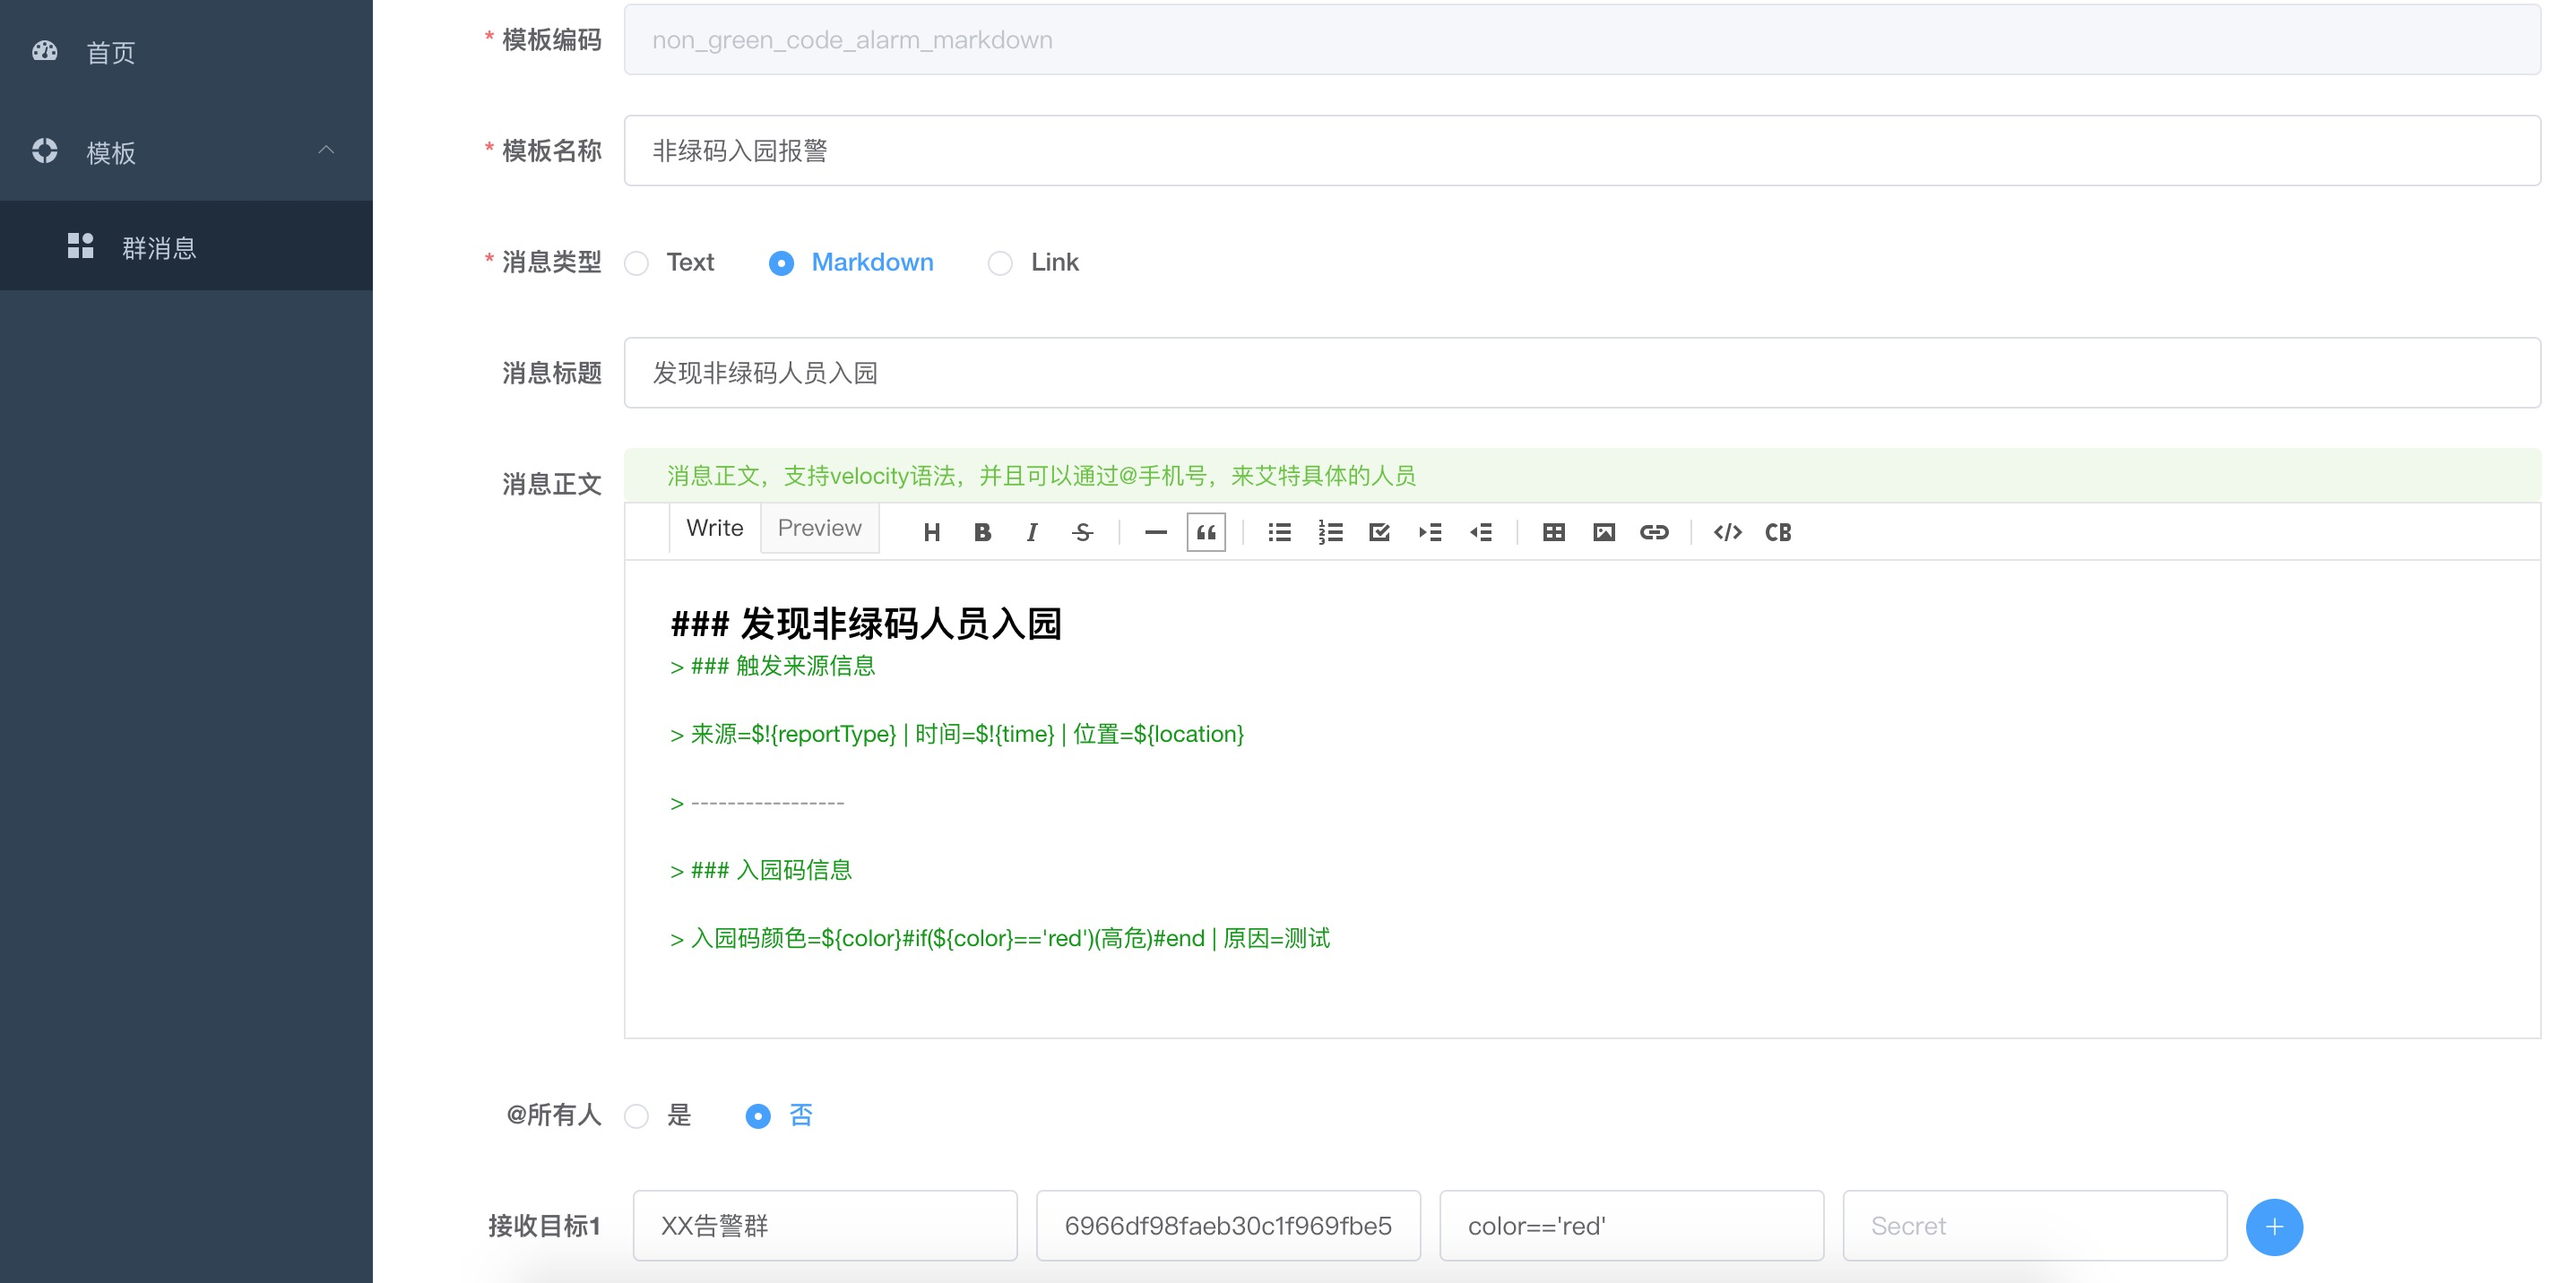
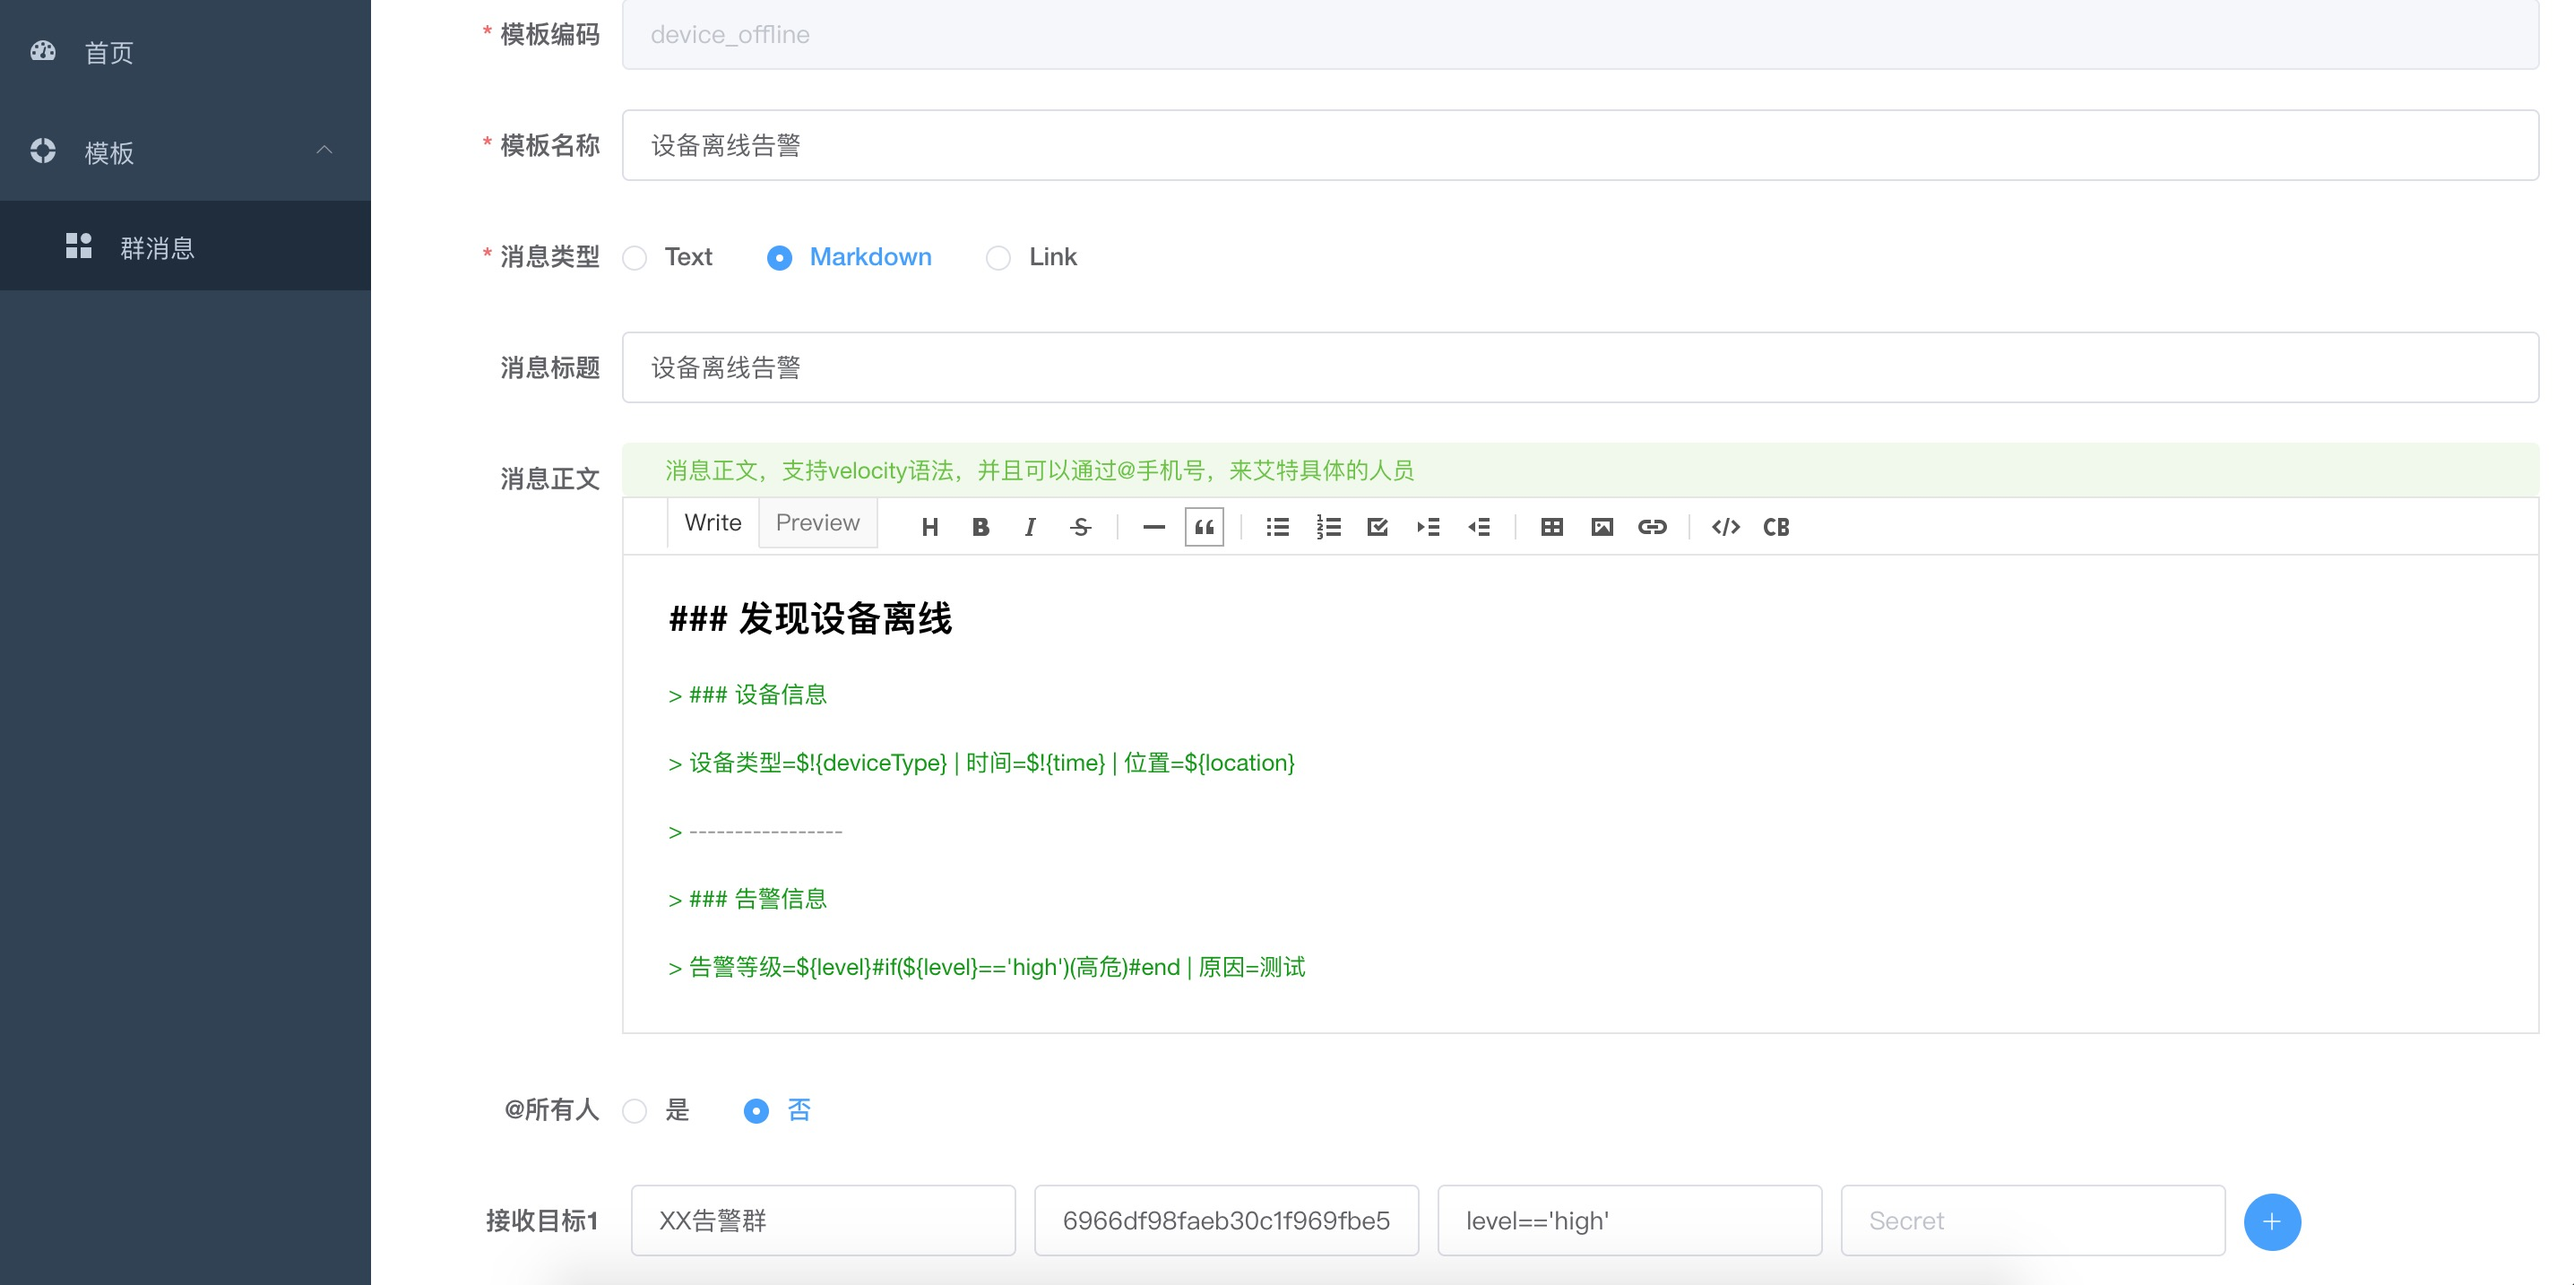
修改页面模块

diff --git a/walle-core/src/main/resources/static/index.html b/walle-core/src/main/resources/static/index.html
@@ -1,1 +1,1 @@
-<!DOCTYPE html><html><head><meta charset=utf-8><meta http-equiv=X-UA-Compatible content="IE=edge,chrome=1"><meta name=viewport content="width=device-width,initial-scale=1,maximum-scale=1,user-scalable=no"><link rel=icon href=/favicon.ico><title>Walle助手</title><link href=/static/css/chunk-elementUI.ded27da0.css rel=stylesheet><link href=/static/css/chunk-libs.3dfb7769.css rel=stylesheet><link href=/static/css/app.34b57f5f.css rel=stylesheet></head><body><noscript><strong>We're sorry but Walle助手 doesn't work properly without JavaScript enabled. Please enable it to continue.</strong></noscript><div id=app></div><script src=/static/js/chunk-elementUI.466ca26e.js></script><script src=/static/js/chunk-libs.1dbd3e15.js></script><script>(function(e){function t(t){for(var r,c,a=t[0],i=t[1],f=t[2],d=0,l=[];d<a.length;d++)c=a[d],u[c]&&l.push(u[c][0]),u[c]=0;for(r in i)Object.prototype.hasOwnProperty.call(i,r)&&(e[r]=i[r]);h&&h(t);while(l.length)l.shift()();return o.push.apply(o,f||[]),n()}function n(){for(var e,t=0;t<o.length;t++){for(var n=o[t],r=!0,c=1;c<n.length;c++){var a=n[c];0!==u[a]&&(r=!1)}r&&(o.splice(t--,1),e=i(i.s=n[0]))}return e}var r={},c={runtime:0},u={runtime:0},o=[];function a(e){return i.p+"static/js/"+({}[e]||e)+"."+{"chunk-43e0c0fc":"f95ce8cb","chunk-4de1c2b6":"98e9e688","chunk-51ad9dd3":"7016bf33","chunk-6ff4f7ba":"876e73c9","chunk-70d2a900":"2db04e24","chunk-798a8b3c":"cf391efb","chunk-1a7ed493":"ace158d2","chunk-1b2b797b":"e5b20967","chunk-804cbd24":"2b487291"}[e]+".js"}function i(t){if(r[t])return r[t].exports;var n=r[t]={i:t,l:!1,exports:{}};return e[t].call(n.exports,n,n.exports,i),n.l=!0,n.exports}i.e=function(e){var t=[],n={"chunk-4de1c2b6":1,"chunk-51ad9dd3":1,"chunk-6ff4f7ba":1,"chunk-70d2a900":1,"chunk-798a8b3c":1,"chunk-804cbd24":1};c[e]?t.push(c[e]):0!==c[e]&&n[e]&&t.push(c[e]=new Promise((function(t,n){for(var r="static/css/"+({}[e]||e)+"."+{"chunk-43e0c0fc":"31d6cfe0","chunk-4de1c2b6":"a37cd815","chunk-51ad9dd3":"c6cb03d1","chunk-6ff4f7ba":"f399c38a","chunk-70d2a900":"55392022","chunk-798a8b3c":"02f29e6e","chunk-1a7ed493":"31d6cfe0","chunk-1b2b797b":"31d6cfe0","chunk-804cbd24":"cc880793"}[e]+".css",u=i.p+r,o=document.getElementsByTagName("link"),a=0;a<o.length;a++){var f=o[a],d=f.getAttribute("data-href")||f.getAttribute("href");if("stylesheet"===f.rel&&(d===r||d===u))return t()}var l=document.getElementsByTagName("style");for(a=0;a<l.length;a++){f=l[a],d=f.getAttribute("data-href");if(d===r||d===u)return t()}var h=document.createElement("link");h.rel="stylesheet",h.type="text/css",h.onload=t,h.onerror=function(t){var r=t&&t.target&&t.target.src||u,o=new Error("Loading CSS chunk "+e+" failed.\n("+r+")");o.code="CSS_CHUNK_LOAD_FAILED",o.request=r,delete c[e],h.parentNode.removeChild(h),n(o)},h.href=u;var s=document.getElementsByTagName("head")[0];s.appendChild(h)})).then((function(){c[e]=0})));var r=u[e];if(0!==r)if(r)t.push(r[2]);else{var o=new Promise((function(t,n){r=u[e]=[t,n]}));t.push(r[2]=o);var f,d=document.createElement("script");d.charset="utf-8",d.timeout=120,i.nc&&d.setAttribute("nonce",i.nc),d.src=a(e),f=function(t){d.onerror=d.onload=null,clearTimeout(l);var n=u[e];if(0!==n){if(n){var r=t&&("load"===t.type?"missing":t.type),c=t&&t.target&&t.target.src,o=new Error("Loading chunk "+e+" failed.\n("+r+": "+c+")");o.type=r,o.request=c,n[1](o)}u[e]=void 0}};var l=setTimeout((function(){f({type:"timeout",target:d})}),12e4);d.onerror=d.onload=f,document.head.appendChild(d)}return Promise.all(t)},i.m=e,i.c=r,i.d=function(e,t,n){i.o(e,t)||Object.defineProperty(e,t,{enumerable:!0,get:n})},i.r=function(e){"undefined"!==typeof Symbol&&Symbol.toStringTag&&Object.defineProperty(e,Symbol.toStringTag,{value:"Module"}),Object.defineProperty(e,"__esModule",{value:!0})},i.t=function(e,t){if(1&t&&(e=i(e)),8&t)return e;if(4&t&&"object"===typeof e&&e&&e.__esModule)return e;var n=Object.create(null);if(i.r(n),Object.defineProperty(n,"default",{enumerable:!0,value:e}),2&t&&"string"!=typeof e)for(var r in e)i.d(n,r,function(t){return e[t]}.bind(null,r));return n},i.n=function(e){var t=e&&e.__esModule?function(){return e["default"]}:function(){return e};return i.d(t,"a",t),t},i.o=function(e,t){return Object.prototype.hasOwnProperty.call(e,t)},i.p="/",i.oe=function(e){throw console.error(e),e};var f=window["webpackJsonp"]=window["webpackJsonp"]||[],d=f.push.bind(f);f.push=t,f=f.slice();for(var l=0;l<f.length;l++)t(f[l]);var h=d;n()})([]);</script><script src=/static/js/app.07e51faa.js></script></body></html>
+<!DOCTYPE html><html><head><meta charset=utf-8><meta http-equiv=X-UA-Compatible content="IE=edge,chrome=1"><meta name=viewport content="width=device-width,initial-scale=1,maximum-scale=1,user-scalable=no"><link rel=icon href=/favicon.ico><title>Walle助手</title><link href=/static/css/chunk-elementUI.ded27da0.css rel=stylesheet><link href=/static/css/chunk-libs.3dfb7769.css rel=stylesheet><link href=/static/css/app.34b57f5f.css rel=stylesheet></head><body><noscript><strong>We're sorry but Walle助手 doesn't work properly without JavaScript enabled. Please enable it to continue.</strong></noscript><div id=app></div><script src=/static/js/chunk-elementUI.466ca26e.js></script><script src=/static/js/chunk-libs.cf8ee304.js></script><script>(function(e){function t(t){for(var r,c,a=t[0],f=t[1],i=t[2],l=0,d=[];l<a.length;l++)c=a[l],u[c]&&d.push(u[c][0]),u[c]=0;for(r in f)Object.prototype.hasOwnProperty.call(f,r)&&(e[r]=f[r]);h&&h(t);while(d.length)d.shift()();return o.push.apply(o,i||[]),n()}function n(){for(var e,t=0;t<o.length;t++){for(var n=o[t],r=!0,c=1;c<n.length;c++){var a=n[c];0!==u[a]&&(r=!1)}r&&(o.splice(t--,1),e=f(f.s=n[0]))}return e}var r={},c={runtime:0},u={runtime:0},o=[];function a(e){return f.p+"static/js/"+({}[e]||e)+"."+{"chunk-31e73c3e":"2ee39e7d","chunk-43e0c0fc":"e0677ce4","chunk-4de1c2b6":"98e9e688","chunk-6ff4f7ba":"876e73c9","chunk-76db3acf":"9c7bdba1","chunk-798a8b3c":"cf391efb","chunk-1a7ed493":"df8e4baf","chunk-1b2b797b":"719c9751","chunk-804cbd24":"2b487291"}[e]+".js"}function f(t){if(r[t])return r[t].exports;var n=r[t]={i:t,l:!1,exports:{}};return e[t].call(n.exports,n,n.exports,f),n.l=!0,n.exports}f.e=function(e){var t=[],n={"chunk-31e73c3e":1,"chunk-4de1c2b6":1,"chunk-6ff4f7ba":1,"chunk-76db3acf":1,"chunk-798a8b3c":1,"chunk-804cbd24":1};c[e]?t.push(c[e]):0!==c[e]&&n[e]&&t.push(c[e]=new Promise((function(t,n){for(var r="static/css/"+({}[e]||e)+"."+{"chunk-31e73c3e":"55392022","chunk-43e0c0fc":"31d6cfe0","chunk-4de1c2b6":"a37cd815","chunk-6ff4f7ba":"f399c38a","chunk-76db3acf":"183ba0ab","chunk-798a8b3c":"02f29e6e","chunk-1a7ed493":"31d6cfe0","chunk-1b2b797b":"31d6cfe0","chunk-804cbd24":"cc880793"}[e]+".css",u=f.p+r,o=document.getElementsByTagName("link"),a=0;a<o.length;a++){var i=o[a],l=i.getAttribute("data-href")||i.getAttribute("href");if("stylesheet"===i.rel&&(l===r||l===u))return t()}var d=document.getElementsByTagName("style");for(a=0;a<d.length;a++){i=d[a],l=i.getAttribute("data-href");if(l===r||l===u)return t()}var h=document.createElement("link");h.rel="stylesheet",h.type="text/css",h.onload=t,h.onerror=function(t){var r=t&&t.target&&t.target.src||u,o=new Error("Loading CSS chunk "+e+" failed.\n("+r+")");o.code="CSS_CHUNK_LOAD_FAILED",o.request=r,delete c[e],h.parentNode.removeChild(h),n(o)},h.href=u;var s=document.getElementsByTagName("head")[0];s.appendChild(h)})).then((function(){c[e]=0})));var r=u[e];if(0!==r)if(r)t.push(r[2]);else{var o=new Promise((function(t,n){r=u[e]=[t,n]}));t.push(r[2]=o);var i,l=document.createElement("script");l.charset="utf-8",l.timeout=120,f.nc&&l.setAttribute("nonce",f.nc),l.src=a(e),i=function(t){l.onerror=l.onload=null,clearTimeout(d);var n=u[e];if(0!==n){if(n){var r=t&&("load"===t.type?"missing":t.type),c=t&&t.target&&t.target.src,o=new Error("Loading chunk "+e+" failed.\n("+r+": "+c+")");o.type=r,o.request=c,n[1](o)}u[e]=void 0}};var d=setTimeout((function(){i({type:"timeout",target:l})}),12e4);l.onerror=l.onload=i,document.head.appendChild(l)}return Promise.all(t)},f.m=e,f.c=r,f.d=function(e,t,n){f.o(e,t)||Object.defineProperty(e,t,{enumerable:!0,get:n})},f.r=function(e){"undefined"!==typeof Symbol&&Symbol.toStringTag&&Object.defineProperty(e,Symbol.toStringTag,{value:"Module"}),Object.defineProperty(e,"__esModule",{value:!0})},f.t=function(e,t){if(1&t&&(e=f(e)),8&t)return e;if(4&t&&"object"===typeof e&&e&&e.__esModule)return e;var n=Object.create(null);if(f.r(n),Object.defineProperty(n,"default",{enumerable:!0,value:e}),2&t&&"string"!=typeof e)for(var r in e)f.d(n,r,function(t){return e[t]}.bind(null,r));return n},f.n=function(e){var t=e&&e.__esModule?function(){return e["default"]}:function(){return e};return f.d(t,"a",t),t},f.o=function(e,t){return Object.prototype.hasOwnProperty.call(e,t)},f.p="/",f.oe=function(e){throw console.error(e),e};var i=window["webpackJsonp"]=window["webpackJsonp"]||[],l=i.push.bind(i);i.push=t,i=i.slice();for(var d=0;d<i.length;d++)t(i[d]);var h=l;n()})([]);</script><script src=/static/js/app.30a48e0a.js></script></body></html>

diff --git a/README.md b/README.md
@@ -10,7 +10,7 @@
 
 ## **创建账号**
 
-项目运行起来之后，打开 http://localhost:9528
+项目运行起来之后，打开 http://localhost:7001
 
 系统会进入登录页面，如下图所示：
 
@@ -81,13 +81,13 @@
 
 ![send_msg_success_2](./md/readme/send_msg_success_2.jpg)
 
-如果我们携带的数据只有一个 color 字段时，那将会收到这样的消息：
+如果我们携带的数据只有一个 level 字段时，那将会收到这样的消息：
 
 ![send_msg_success_3](./md/readme/send_msg_success_3.jpg)
 
 消息中来源和时间的值都是空的，而位置的值是 \${location} 这个字符串，这是根据模板中设置的变量有没有加感叹号确定的。
 
-如果加了感叹号：\$!{reportType} 当该变量的值为空时，渲染的结果会是空字符串，否则会将该变量直接展示出来。
+如果加了感叹号：\$!{deviceType} 当该变量的值为空时，渲染的结果会是空字符串，否则会将该变量直接展示出来。
 
 ### 多个接收目标
 
@@ -99,7 +99,7 @@
 
 每个接收目标中可以设置一个条件表达式，发送之前会计算条件表达式的值，结果为 true 时才会发送消息。
 
-比如设置如下两个接收目标，条件表达式设置为 [color=='red']，那么只有当携带的数据中有 color 变量，并且值等于 red 时，才会执行消息发送。
+比如设置如下两个接收目标，条件表达式设置为 [level=='high']，那么只有当携带的数据中有 level 变量，并且值等于 high 时，才会执行消息发送。
 
 PS：条件表达式的计算基于[aviator](https://github.com/killme2008/aviator)
 
@@ -113,4 +113,47 @@ PS：条件表达式的计算基于[aviator](https://github.com/killme2008/aviat
 - 将表达式作为开关使用，比如设置表达式为：[false] 或 [1==2] 这样的值，就相当于不向该接收目标发送消息
 
 
+
+
+
+## 接口调用
+
+页面是进行模板管理的，最终发送消息还是要通过接口来操作的。
+
+只需要两步即可通过接口发送消息：
+
+1.引入 walle-api 模块：
+
+```xml
+<dependency>
+    <groupId>com.alibaba.walle</groupId>
+    <artifactId>walle-api</artifactId>
+    <version>0.0.1</version>
+</dependency>
+```
+
+2.创建 WalleClient 并发送消息：
+
+```java
+WalleConfig config = WalleConfig.builder()
+        .endPoint("http://127.0.0.1:7001")
+        .accessKey("m74hscNSZPVWo3tK")
+        .secretKey("QsfigP8ibVhgFv5QmcPHkwsV")
+        .build();
+// 创建 WalleClient
+WalleClient walleClient = new WalleHttpClient(config);
+// 设置请求参数
+GroupMessageDTO messageDTO = new GroupMessageDTO();
+// 模板编号
+messageDTO.setBoardCode("device_offline");
+// 携带的数据
+JSONObject data = new JSONObject();
+data.put("level", "high");
+messageDTO.setData(data.toJSONString());
+// 发送请求
+BaseResult result = walleClient.sendGroupMessage(messageDTO);
+System.out.println(result);
+```
+
+其中 **accessKey** 和 **secretKey** 在【个人中心】-【安全设置】中查看。
 
